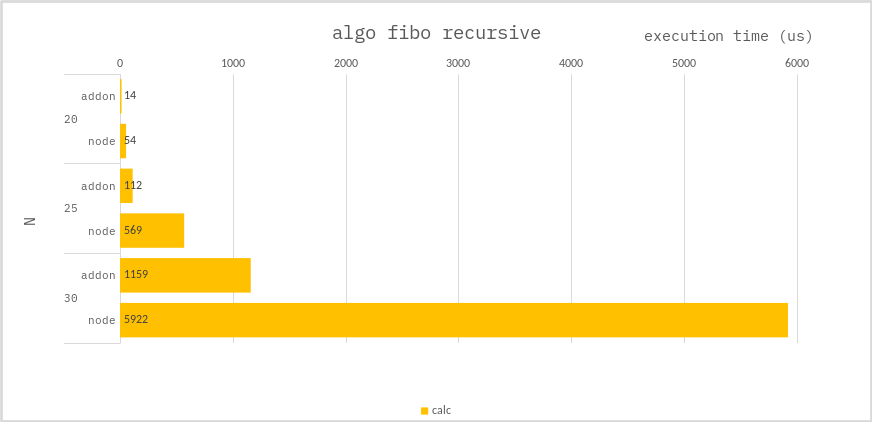
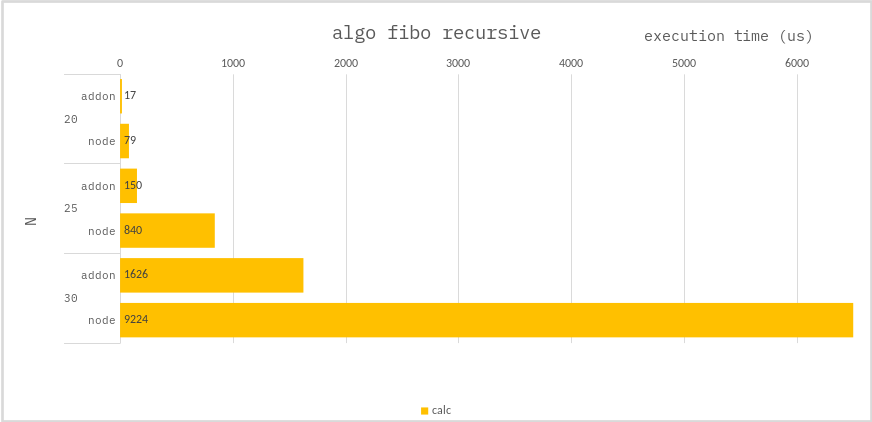
re-benchmark: Increased the number of samples to 100,000

diff --git a/benchmark/4-1.algo-fibo-recursive/readme.md b/benchmark/4-1.algo-fibo-recursive/readme.md
@@ -11,7 +11,7 @@ function fibo(n: number): number {
 
 ### Benchmark
 
-> Measure the average of 10,000 times.
+> Measure the average of 100,000 times.
 
 ![](./resource/benchmark.png)
 
